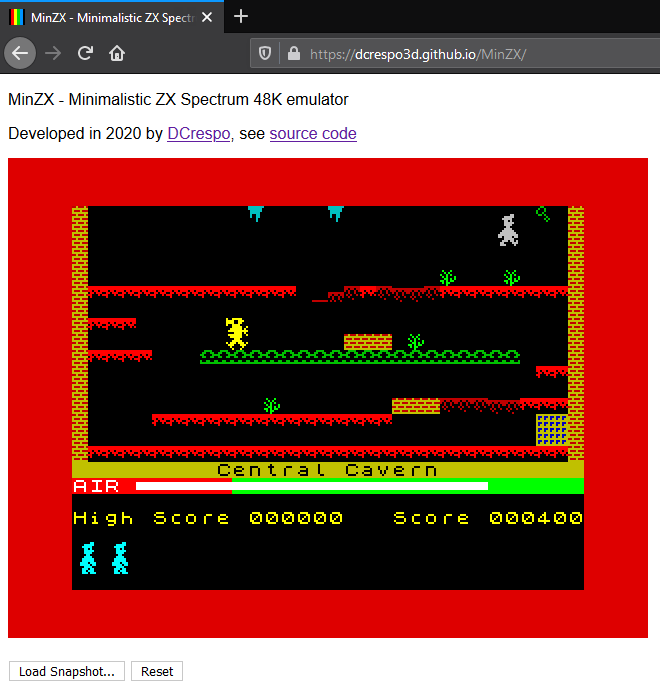
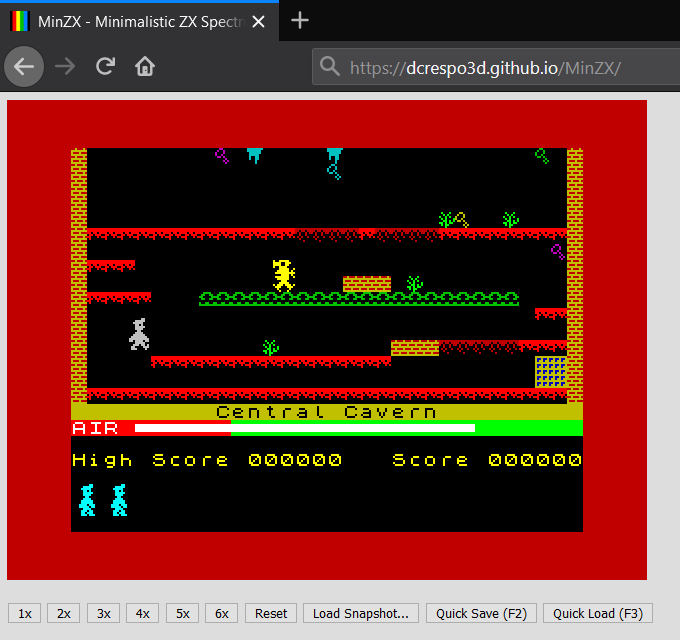
Added scale controls for screen.

diff --git a/index.html b/index.html
@@ -22,21 +22,27 @@ body {
     text-align: center;
     color: #EEE;
     background-color: #777;
-    display: none;
+    visibility: hidden;
 }
     </style>
 </head>
 <body>
-    <p>MinZX - Minimalistic ZX Spectrum 48K emulator</p>
-    <p>Developed in 2020 by <a href="https://github.com/dcrespo3d">DCrespo</a>, see <a href="https://github.com/dcrespo3d/MinZX">source code</a></p>
     <canvas id=zxscreen></canvas>
     <br/><br/>
+    <button class=btnScale>1x</button>
+    <button class=btnScale>2x</button>
+    <button class=btnScale>3x</button>
+    <button class=btnScale>4x</button>
+    <button class=btnScale>5x</button>
+    <button class=btnScale>6x</button>
     <button id=btnReset>Reset</button>
     <button id=btnLoadSnaFile>Load Snapshot...</button>
     <button id=btnSaveQuickSna>Quick Save (F2)</button>
     <button id=btnLoadQuickSna>Quick Load (F3)</button>
     <br/>
-    <p id="statusmsg"></p>
+    <p id="statusmsg">status</p>
+    <p>MinZX - Minimalistic ZX Spectrum 48K emulator</p>
+    <p>Developed in 2020 by <a href="https://github.com/dcrespo3d">DCrespo</a>, see <a href="https://github.com/dcrespo3d/MinZX">source code</a></p>
 
     <script>
 /**/
@@ -67,12 +73,34 @@ window.addEventListener('load', function() {
 
     // chrome starts AudioContext in suspended state.
     let resumeOnce = true;
-    window.addEventListener('keydown', function(e) {
+    function wakeUpAudioInChrome() {
         if (resumeOnce) {
             resumeOnce = false;
             theAudioContext.resume();
         }
+    }
+
+    window.addEventListener('click', function(e) {
+        wakeUpAudioInChrome();
     });
+
+    window.addEventListener('keydown', function(e) {
+        wakeUpAudioInChrome();
+        preventDefaultKeys(e);
+    });
+
+    // quick save/load keys
+    window.addEventListener('keyup', function(e) {
+        if (e.key == 'F2') doQuickSave();
+        if (e.key == 'F3') doQuickLoad();
+        preventDefaultKeys(e);
+    });
+
+    function preventDefaultKeys(e) {
+        if (!e.preventDefault) return;
+        if (e.key == 'F2' || e.key == 'F3' || e.key == 'Backspace')
+            e.preventDefault();
+    }
 
     // load snapshot button
     const btnLoadSnaFile = document.getElementById('btnLoadSnaFile');
@@ -83,7 +111,7 @@ window.addEventListener('load', function() {
         }
         loadLocalFile(function(filename, data) {
             minzx.loadSNA(data);
-            displayStatus("Loaded Snapshot: " + filename);
+            displayStatus('Loaded Snapshot: ' + filename);
         });
     });
 
@@ -105,19 +133,19 @@ window.addEventListener('load', function() {
         enableQuickLoad(true);
         const snadata = minzx.saveSNA();
         if (snadata == null) {
-            displayStatus("Cannot Save Quick Snapshot");
+            displayStatus('Cannot Save Quick Snapshot');
             return;
         }
         const snapshot = { data: snadata };
         window.localStorage[quickSaveKey] = JSON.stringify(snapshot);
-        displayStatus("Saved Quick Snapshot");
+        displayStatus('Saved Quick Snapshot');
     }
 
     function doQuickLoad() {
         if (!quickLoadEnabled) return;
         const snapshot = JSON.parse(window.localStorage[quickSaveKey]);
         minzx.loadSNA(snapshot.data);
-        displayStatus("Loaded Quick Snapshot");
+        displayStatus('Loaded Quick Snapshot');
     }
 
     // quick save button
@@ -130,12 +158,6 @@ window.addEventListener('load', function() {
     const btnLoadQuickSna = document.getElementById('btnLoadQuickSna');
     btnLoadQuickSna.addEventListener('click', function() {
         doQuickLoad();
-    });
-
-    // quick save/load keys
-    window.addEventListener('keyup', function(e) {
-        if (e.key == "F2") doQuickSave();
-        if (e.key == "F3") doQuickLoad();
     });
 
     function enableQuickSave(enabled) { quickSaveEnabled = enabled; btnSaveQuickSna.style.display = enabled ? 'inline-block' : 'none'; }
@@ -156,12 +178,22 @@ window.addEventListener('load', function() {
     // status line
     function displayStatus(text) {
         const statusmsg = document.getElementById('statusmsg');
-        statusmsg.style.display = 'block';
+        statusmsg.style.visibility = 'visible';
         statusmsg.innerText = text;
         clearTimeout(idDisplayTimeout);
         idDisplayTimeout = setTimeout(function() {
-            statusmsg.style.display = 'none';    
+            statusmsg.style.visibility = 'hidden';    
         }, 2000);
+    }
+
+    // scale buttons
+    const btnScaleArr = document.getElementsByClassName('btnScale');
+    for (let i = 0; i < btnScaleArr.length; i++) {
+        const btnScale = btnScaleArr[i];
+        const scale = parseInt(btnScale.innerText);
+        btnScale.addEventListener('click', function() {
+            minzx._screen.setScale(scale);
+        });
     }
 });
 

diff --git a/ZXKeyboard.js b/ZXKeyboard.js
@@ -59,14 +59,13 @@ class ZXKeyboard
         // setup keydown and keyup events
         let self = this;
         eventReceiverElement.addEventListener('keydown', function(e) {
-            self._onKey(e.keyCode, true);
-            if (e.preventDefault)
+            const keyProcessed = self._onKey(e.keyCode, true);
+            if (keyProcessed && e.preventDefault)
                 e.preventDefault();
         });
         eventReceiverElement.addEventListener('keyup', function(e) {
-            //console.log(e);
-            self._onKey(e.keyCode, false);
-            if (e.preventDefault)
+            const keyProcessed = self._onKey(e.keyCode, false);
+            if (keyProcessed && e.preventDefault)
                 e.preventDefault();
         });
     }
@@ -87,7 +86,7 @@ class ZXKeyboard
     _onKey(keyCode, down)
     {
         // ignore keycodes absent from keycode table
-        if (!(keyCode in this.kctable)) return;
+        if (!(keyCode in this.kctable)) return false;
 
         // get port and bit for given key
         let kval = this.kctable[keyCode];
@@ -111,6 +110,8 @@ class ZXKeyboard
 
         // update port value
         this.kbbits[port] = pval;
+
+        return true;
     }
 
     // Get keyboard value for given port (negated masks allowed)

diff --git a/ZXScreen.js b/ZXScreen.js
@@ -23,9 +23,6 @@ class ZXScreen
         // initial border color: white
         this.border = 7;
 
-        // scale factor
-        this.scale = 2;
-
         // create canvas and context
         this.canvas = document.getElementById(canvasIdForScreen);
         this.ctx = this.canvas.getContext('2d');
@@ -34,6 +31,17 @@ class ZXScreen
         const xborder = 32;
         const yborder = 24;
         this.zxid = new ZXScreenAsImageData(this.ctx, xborder, yborder);
+
+        // initialscale
+        this.setScale(2);
+    }
+
+    getScale() { return this.scale; }
+
+    setScale(scale)
+    {
+        // scale factor
+        this.scale = scale;
 
         // resize canvas using screen and scale
         this.canvas.width  = this.zxid.getWidth()  * this.scale;

diff --git a/README.md b/README.md
@@ -19,7 +19,7 @@ The project totals ~1200 lines of code`*` (including lots of comments and empty 
 
 ## Features
 - ZX Spectrum 48K emulation with original ROM.
-- Screen emulation with border, BRIGHT and FLASH attributes.
+- Screen emulation with border, BRIGHT and FLASH attributes. Controls for scaling screen.
 - Keyboard emulation, from DOM keydown/keyup events.
 - Sound emulation with 4x supersampling for clear beeper tunes.
 - SNA snapshot loading from local filesystem.
